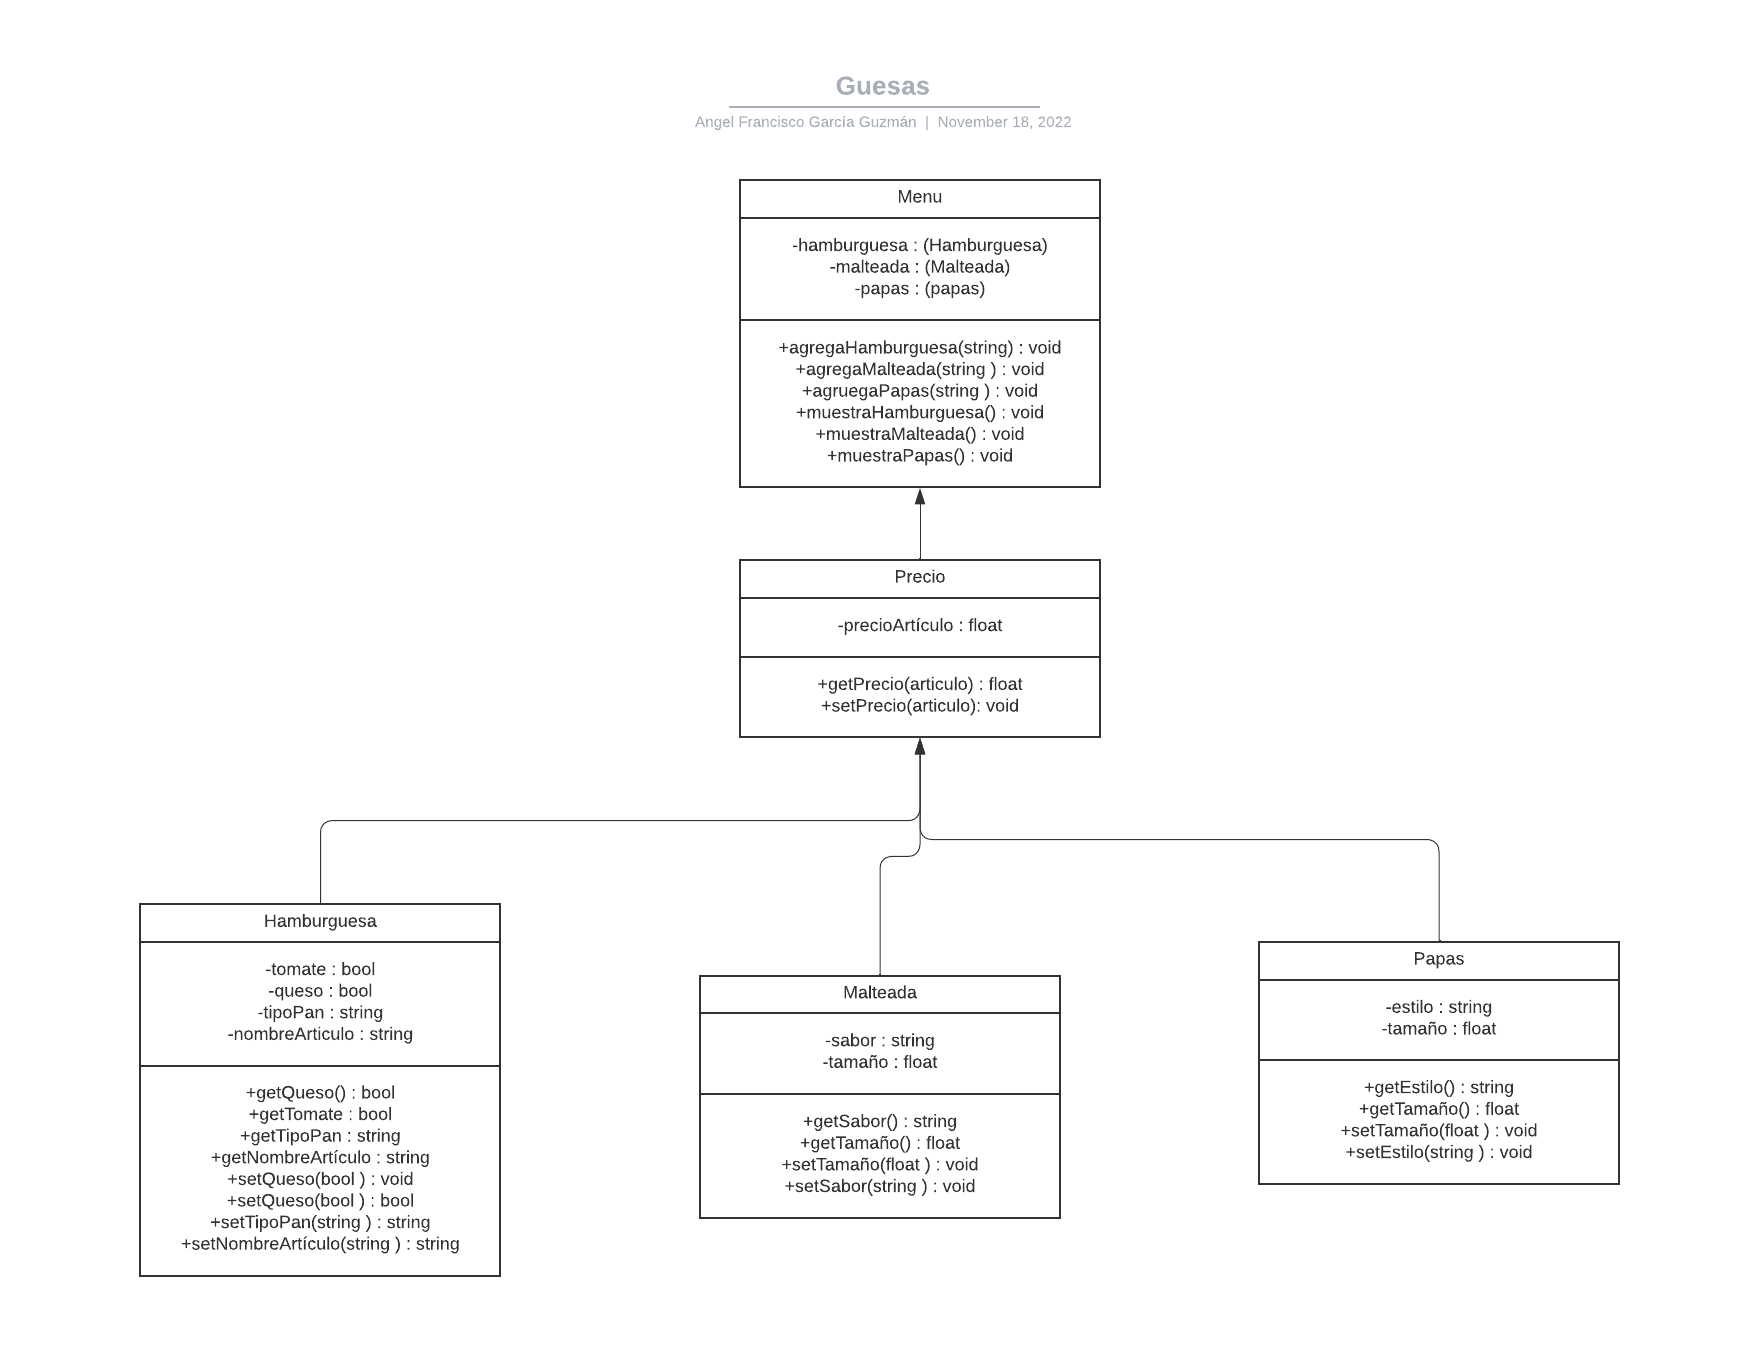
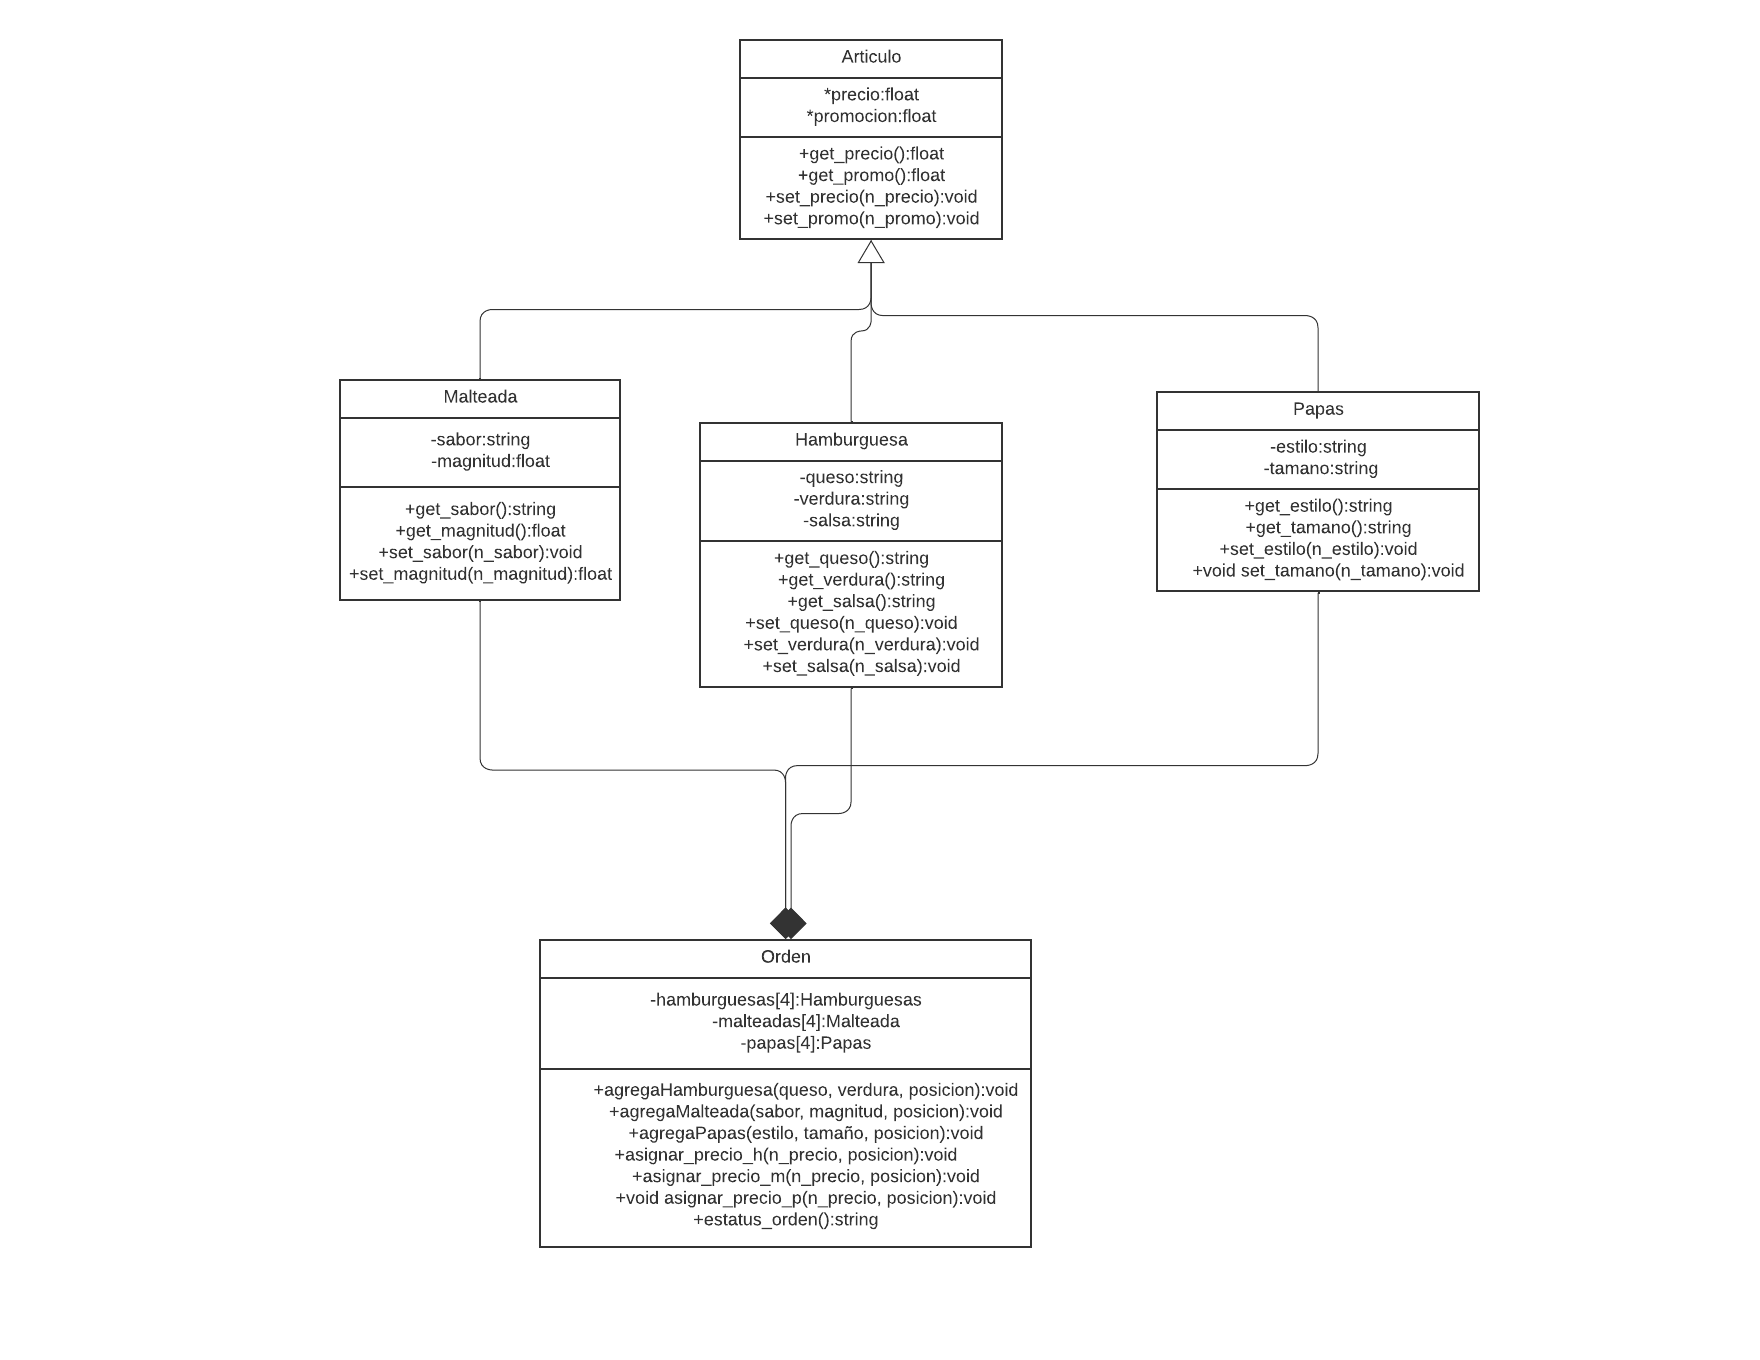
Add files via upload

diff --git a/orden.h b/orden.h
@@ -1,0 +1,84 @@
+#include<string>
+#include<sstream>
+#include"hamburguesas.h"
+#include"malteadas.h"
+#include"papas.h"
+#ifndef ORDEN_H_
+#define ORDEN_H_
+
+class Orden{
+
+    private:
+        Hamburguesa hamburguesas[4];
+        Malteada malteadas[4];
+        Papas papas[4]; 
+
+    public:
+        Orden(){};
+        void agregaHamburguesa(std::string, std::string, std::string, int);
+        void agregaMalteada(std::string, float, int);
+        void agregaPapas(std::string, std::string, int);
+        std::string estatus_orden();
+
+        void asignar_precio_h(float, int);
+        void asignar_precio_m(float, int);
+        void asignar_precio_p(float, int);
+
+};
+
+
+
+void Orden::agregaHamburguesa(std::string que, std::string ve, std::string sa, int posicion){
+    hamburguesas[posicion] = Hamburguesa(que, ve, sa);
+}
+
+void Orden::agregaMalteada(std::string sabor, float magnitud, int posicion){
+    malteadas[posicion] = Malteada(sabor, magnitud);
+}
+
+void Orden::agregaPapas(std::string estilo, std::string tamano, int posicion){
+    papas[posicion] = Papas(estilo, tamano);
+}
+
+void Orden::asignar_precio_h(float precio, int posicion){
+    hamburguesas[posicion].set_precio(precio);
+}
+
+void Orden::asignar_precio_m(float precio, int posicion){
+    malteadas[posicion].set_precio(precio);
+}
+
+void Orden::asignar_precio_p(float precio, int posicion){
+    papas[posicion].set_precio(precio);
+}
+
+
+std::string Orden::estatus_orden(){
+    float acum = 0;
+    for(int i = 0 ; i < 4 ; i++){
+        acum = acum + hamburguesas[i].get_precio();
+        acum = acum + malteadas[i].get_precio();
+        acum = acum + papas[i].get_precio();
+    }
+
+    std::stringstream aux;
+
+    for(int i = 0 ; i < 4 ; i++){
+        aux << "hamburguesa: " << i+1 << " " << hamburguesas[i].to_string() << std::endl;
+    }
+
+    for(int i = 0 ; i < 4 ; i++){
+        aux << "malteada: " << i+1 << " " << malteadas[i].to_string() << std::endl;
+    }
+
+    for(int i = 0 ; i < 4 ; i++){
+        aux << "papas: " << i+1 << " " << papas[i].to_string() << std::endl;
+    }
+
+    aux << "total a pagar: " << acum;
+
+    return aux.str();
+
+}
+
+#endif

diff --git a/hamburguesas.h b/hamburguesas.h
@@ -1,15 +1,18 @@
 #include<string>
-#include "precio.h"
-
+#include"precio.h"
 #include<sstream>
+#ifndef HAMBURGUESA_H_
+#define HAMBURGUESA_H_
 
-class Hamburguesa: public Precio{
+
+
+class Hamburguesa: public Articulo{
 
     //Crear esqueleto de una hamburguesa
     private: 
 
-    bool queso;
-    bool verduras;
+    std::string queso;
+    std::string verduras;
     std::string salsa;
 
     public:
@@ -17,29 +20,29 @@ class Hamburguesa: public Precio{
     //Hamburguesa default
     Hamburguesa(){};
 
-    Hamburguesa(bool que, bool ve, std::string sa): queso(que), verduras(ve), salsa(sa){};
+    Hamburguesa(std::string que, std::string ve, std::string sa): queso(que), verduras(ve), salsa(sa){};
 
     //Funciones "get"
 
-    bool get_queso();
-    bool get_verdura();
+    std::string get_queso();
+    std::string get_verdura();
     std::string get_salsa();
 
     //Funciones "set"
 
-    void set_queso(bool );
-    void set_verdura(bool );
+    void set_queso(std::string );
+    void set_verdura(std::string );
     void set_salsa(std::string );
 
     std::string to_string();
 };
 
 //Definir funciones "get"
-bool Hamburguesa::get_queso(){
+std::string Hamburguesa::get_queso(){
     return queso;
 }
 
-bool Hamburguesa::get_verdura(){
+std::string Hamburguesa::get_verdura(){
     return verduras;
 }
 
@@ -48,11 +51,11 @@ std::string Hamburguesa::get_salsa(){
 }
 
 //Definir funciones "set"
-void Hamburguesa::set_queso(bool n_queso){
+void Hamburguesa::set_queso(std::string n_queso){
     queso = n_queso;
 }
 
-void Hamburguesa::set_verdura(bool n_pan){
+void Hamburguesa::set_verdura(std::string n_pan){
     verduras = n_pan;
 }
 
@@ -61,6 +64,10 @@ void Hamburguesa::set_salsa(std::string n_salsa){
 }
 
 std::string Hamburguesa::to_string(){
-    stringstream aux;
+    std::stringstream aux;
+    aux << "queso: " << queso << " verduras: " << verduras << " salsa: "<< salsa << std::endl;
+    return aux.str();
 
 }
+
+#endif

diff --git a/papas.h b/papas.h
@@ -1,35 +1,42 @@
 #include<string>
 #include "precio.h"
+#ifndef PAPAS_H_
+#define PAPAS_H_
 
-class Papas: public Precio{
+
+class Papas: public Articulo{
 
     //Crear esqueleto de unas papas
     private:
 
     std::string estilo;
-    float magnitud;
+    std::string tamano;
     
     public:
 
     Papas(){};
-    Papas(std::string es, float ma):estilo(es), magnitud(ma){};
+    Papas(std::string es, std::string ma):estilo(es), tamano(ma){};
 
     //Funciones get
     std::string get_estilo();
-    float get_magnitud();
+    std::string get_tamano();
     //Funciones set;
     void set_estilo(std::string );
-    void set_magnitud(float );
+    void set_tamano(std::string );
+
+    std::string to_string();
 
 };
+
+
 
 
 std::string Papas::get_estilo(){
     return estilo;   
 }
 
-float Papas::get_magnitud(){
-    return magnitud;
+std::string Papas::get_tamano(){
+    return tamano;
 }
 
 
@@ -37,6 +44,14 @@ void Papas::set_estilo(std:: string n_estilo){
     estilo = n_estilo;
 }
 
-void Papas::set_magnitud(float n_magnitud){
-    magnitud = n_magnitud;
+void Papas::set_tamano(std::string n_tamano){
+    tamano = n_tamano;
 }
+
+std::string Papas::to_string(){
+    std::stringstream aux;
+    aux << "estilo: " << estilo << " tamano: " << tamano << std::endl;
+    return aux.str();
+}
+
+#endif

diff --git a/malteadas.h b/malteadas.h
@@ -1,7 +1,10 @@
 #include<string>
 #include "precio.h"
+#ifndef MALTEADA_H_
+#define MALTEADA_H_
 
-class Malteada: public Precio{
+
+class Malteada: public Articulo{
 
     //Crear esqueleto de una malteada
     private:
@@ -11,7 +14,7 @@ class Malteada: public Precio{
     
     public:
 
-    Malteada(){};
+    Malteada():sabor(""), magnitud(0){};
     Malteada(std::string sa, float ma):sabor(sa), magnitud(ma){};
 
     //Funciones get
@@ -21,6 +24,8 @@ class Malteada: public Precio{
     //Funciones set
     void set_sabor(std::string );
     void set_magnitud(float );
+
+    std::string to_string();
 
 };
 
@@ -40,3 +45,11 @@ void Malteada::set_sabor(std:: string n_sabor){
 void Malteada::set_magnitud(float n_magnitud){
     magnitud = n_magnitud;
 }
+
+std::string Malteada::to_string(){
+    std::stringstream aux;
+    aux << "sabor: " << sabor << " magnitud: " << magnitud << " litros" << std::endl;
+    return aux.str();
+}
+
+#endif

diff --git a/precio.h b/precio.h
@@ -1,15 +1,16 @@
 #include<string>
+#ifndef PRECIO_H_
+#define PRECIO_H_
 
-class Precio
-{
-private:
+class Articulo{
+protected:
     float precio;
     float promocion;
 
 public:
 
-    Precio(){};
-    Precio(float pre, float pro):precio(pre), promocion(pro){};
+    Articulo(): precio(0), promocion(0){};
+    Articulo(float pre, float pro):precio(pre), promocion(pro){};
 
     float get_precio();
     float get_promo();
@@ -19,19 +20,21 @@ public:
 
 };
 
-float Precio::get_precio(){
+float Articulo::get_precio(){
     return precio;
 }
 
-float Precio::get_promo(){
+float Articulo::get_promo(){
     return promocion;
 }
 
-void Precio::set_precio(float n_precio){
+void Articulo::set_precio(float n_precio){
     precio = n_precio;
     precio = precio - (precio * promocion);
 }
 
-void Precio::set_promo(float n_promo){
+void Articulo::set_promo(float n_promo){
     promocion = n_promo;
 }
+
+#endif

diff --git a/guesas.cpp b/guesas.cpp
@@ -3,12 +3,15 @@
 #include"hamburguesas.h"
 #include"malteadas.h"
 #include"papas.h"
+#include"orden.h"
 
 int main(){
-    Hamburguesa sencilla;
-    sencilla.set_precio(100);
-    sencilla.set_queso(true);
-    sencilla.set_verdura(true);
-    
-
+    Orden num_1;
+    num_1.agregaHamburguesa("Sin queso", "Con verduras", "BBQ", 0);
+    num_1.asignar_precio_h(80.5, 0);
+    num_1.agregaMalteada("Chocolate", 0.5, 0);
+    num_1.asignar_precio_m(50.0, 0);
+    num_1.agregaPapas("Clasicas", "Medianas", 0);
+    num_1.asignar_precio_p(35.5, 0);
+    std::cout << num_1.estatus_orden();
 }
